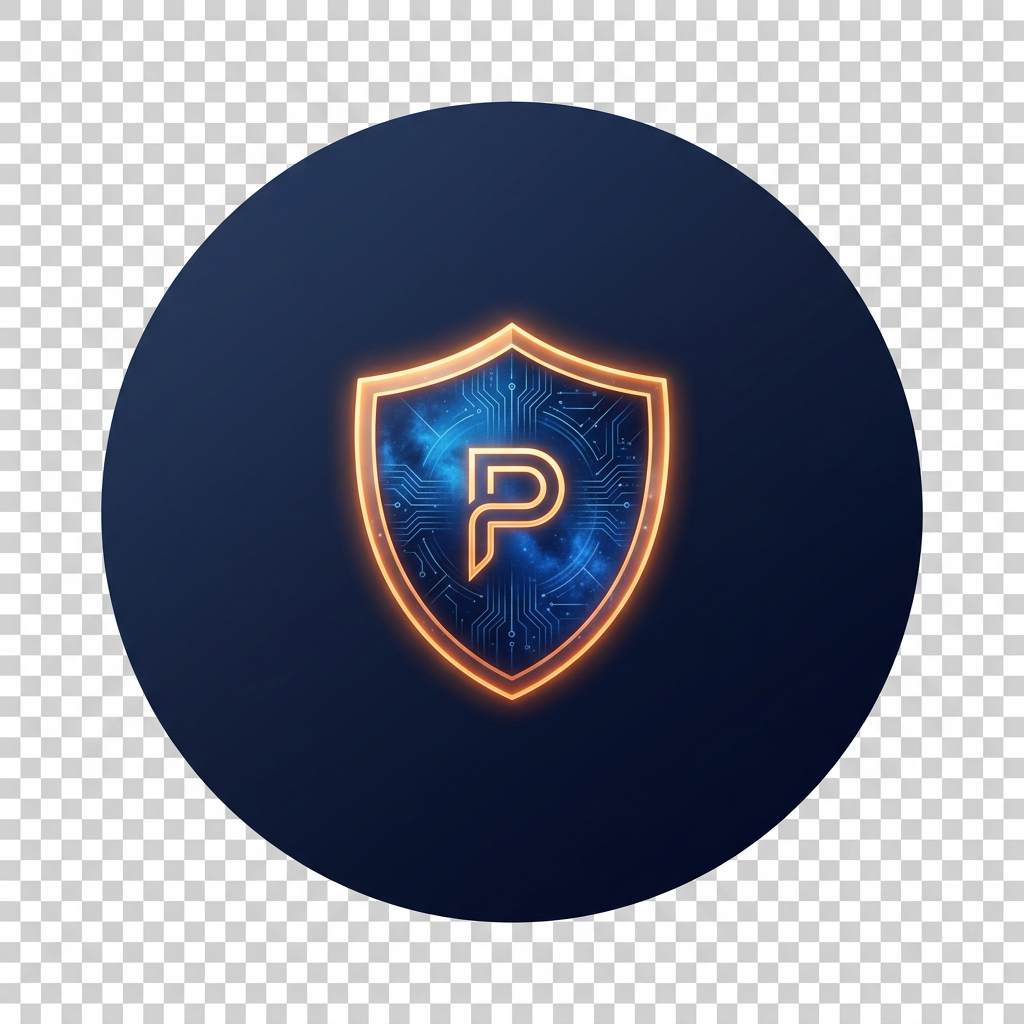
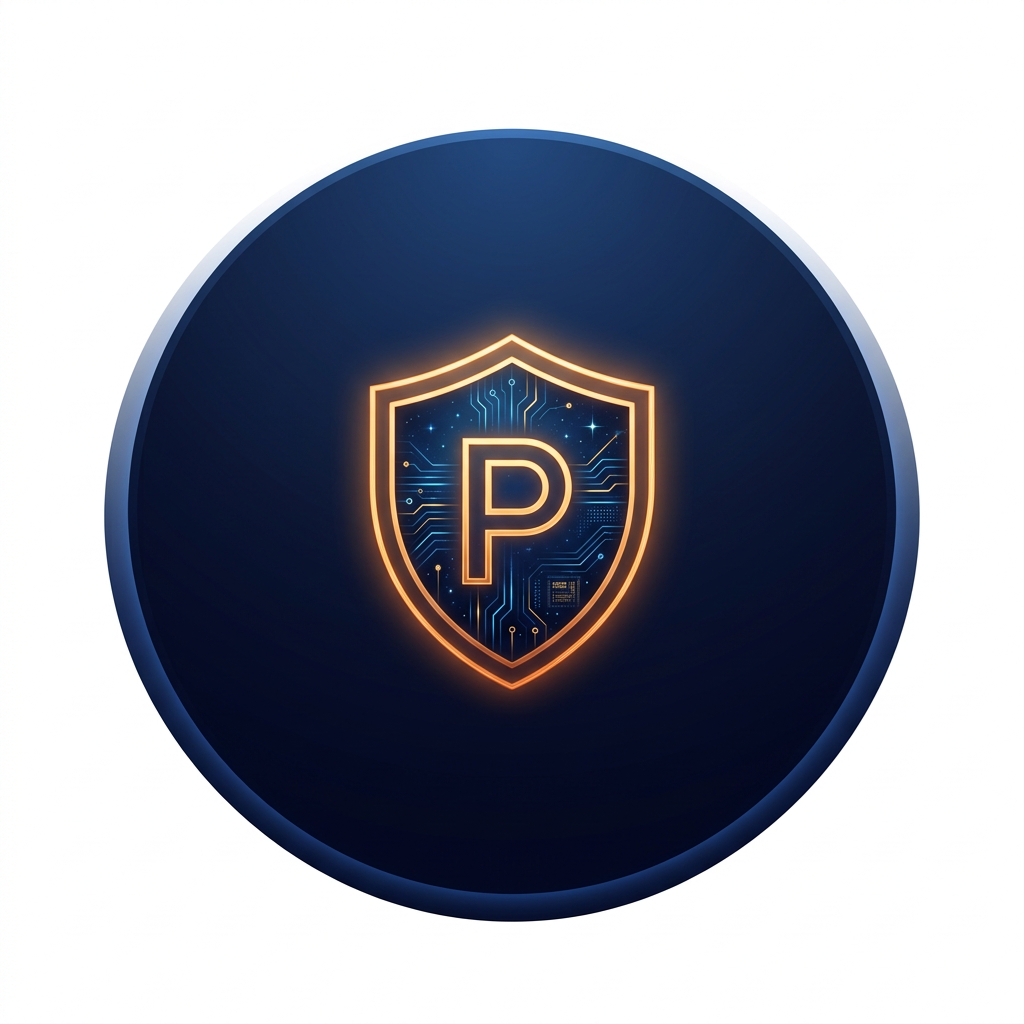
auto-commit for 70ce6fc9-5d02-45ac-9537-c40e5ce08f8d

diff --git a/client/src/components/BrandLogo.tsx b/client/src/components/BrandLogo.tsx
@@ -11,26 +11,13 @@ interface BrandLogoProps {
   variant?: "default" | "compact" | "full";
 }
 
-/* ------------------------------------------------------------------ */
-/*  Size tokens                                                        */
-/* ------------------------------------------------------------------ */
-
-const circleSize: Record<BrandSize, number> = {
+const logoSizes: Record<BrandSize, number> = {
   xs: 36,
-  sm: 44,
-  md: 56,
-  lg: 72,
-  xl: 100,
-  "2xl": 140,
-};
-
-const shieldPad: Record<BrandSize, number> = {
-  xs: 6,
-  sm: 8,
-  md: 10,
-  lg: 12,
-  xl: 18,
-  "2xl": 24,
+  sm: 46,
+  md: 58,
+  lg: 76,
+  xl: 108,
+  "2xl": 148,
 };
 
 const titleSize: Record<BrandSize, string> = {
@@ -60,58 +47,20 @@ const taglineSize: Record<BrandSize, string> = {
   "2xl": "text-xs",
 };
 
-/* ------------------------------------------------------------------ */
-/*  Shared circular container for the shield                           */
-/* ------------------------------------------------------------------ */
-
-function ShieldCircle({ size }: { size: BrandSize }) {
-  const circle = circleSize[size];
-  const pad = shieldPad[size];
-  const shield = circle - pad * 2;
-
+function LogoImage({ size }: { size: BrandSize }) {
+  const px = logoSizes[size];
   return (
-    <div
-      className="relative flex-shrink-0"
-      style={{ width: circle, height: circle }}
-    >
-      {/* Glow ring */}
-      <div
-        className="absolute inset-0 rounded-full opacity-40 blur-md"
-        style={{
-          background: "radial-gradient(circle, rgba(99,132,255,0.5) 0%, rgba(59,40,160,0.3) 60%, transparent 80%)",
-        }}
-      />
-      {/* Circle background */}
-      <div
-        className="absolute inset-0 rounded-full"
-        style={{
-          background: "linear-gradient(145deg, #1a2342 0%, #0c1225 50%, #070d1a 100%)",
-          boxShadow: "0 4px 20px rgba(0,0,0,0.5), 0 0 30px rgba(80,100,220,0.12), inset 0 1px 1px rgba(255,255,255,0.05)",
-          border: "1px solid rgba(100,130,255,0.12)",
-        }}
-      />
-      {/* Shield image */}
-      <img
-        src={logoImage}
-        alt=""
-        width={shield}
-        height={shield}
-        draggable={false}
-        className="absolute object-contain drop-shadow-lg"
-        style={{
-          top: pad,
-          left: pad,
-          width: shield,
-          height: shield,
-        }}
-      />
-    </div>
+    <img
+      src={logoImage}
+      alt="Prashnakosh"
+      width={px}
+      height={px}
+      draggable={false}
+      className="rounded-full flex-shrink-0 object-cover"
+      style={{ width: px, height: px }}
+    />
   );
 }
-
-/* ------------------------------------------------------------------ */
-/*  Main BrandLogo                                                     */
-/* ------------------------------------------------------------------ */
 
 export function BrandLogo({
   size = "md",
@@ -129,7 +78,7 @@ export function BrandLogo({
       )}
       data-testid="brand-logo"
     >
-      <ShieldCircle size={size} />
+      <LogoImage size={size} />
 
       {showText && (
         <div className={cn(variant === "full" ? "text-center" : "flex flex-col justify-center min-w-0")}>
@@ -163,21 +112,13 @@ export function BrandLogo({
   );
 }
 
-/* ------------------------------------------------------------------ */
-/*  BrandMark — icon only (sidebar collapsed, favicon)                 */
-/* ------------------------------------------------------------------ */
-
 export function BrandMark({ size = "md", className }: { size?: BrandSize; className?: string }) {
   return (
     <div className={cn("inline-flex", className)} data-testid="brand-mark">
-      <ShieldCircle size={size} />
+      <LogoImage size={size} />
     </div>
   );
 }
-
-/* ------------------------------------------------------------------ */
-/*  Footer                                                             */
-/* ------------------------------------------------------------------ */
 
 export function BrandFooter({ className }: { className?: string }) {
   const year = new Date().getFullYear();